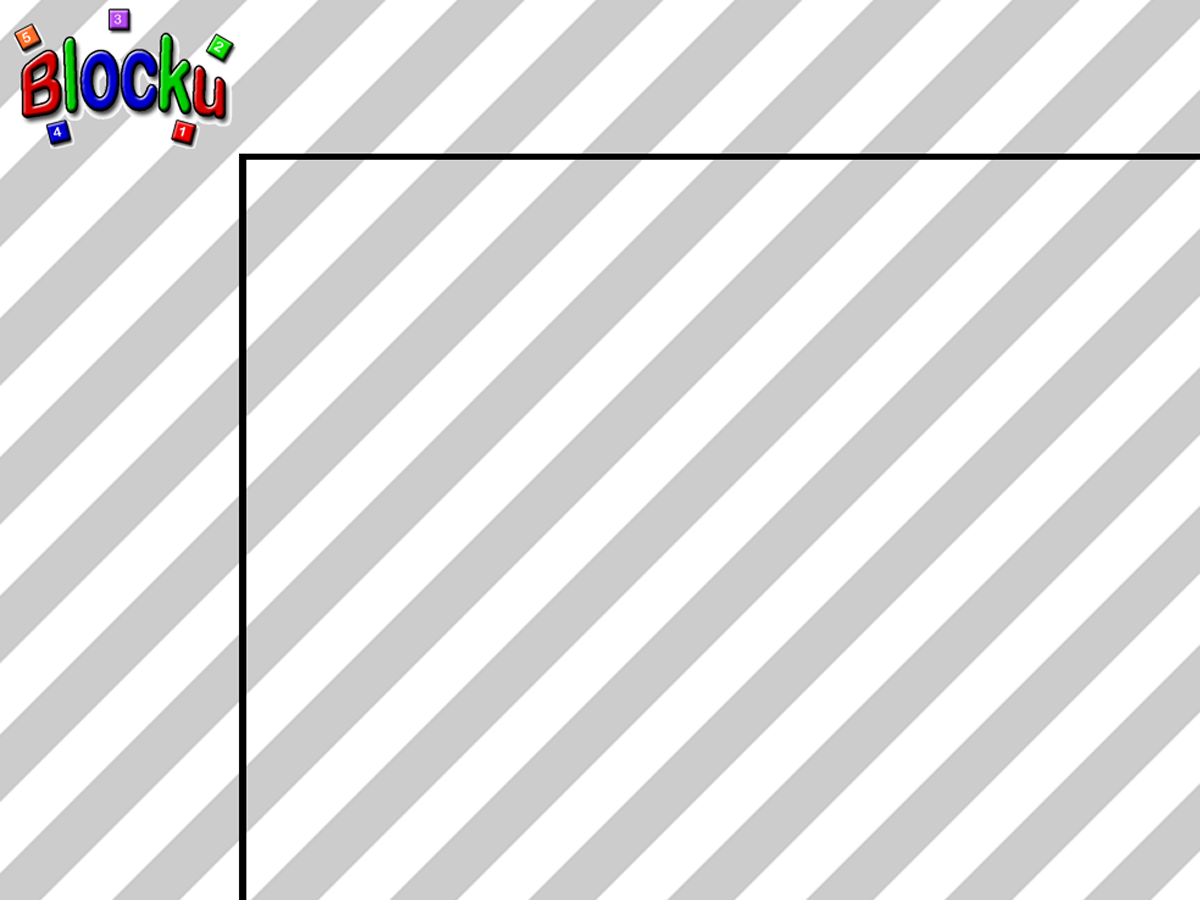
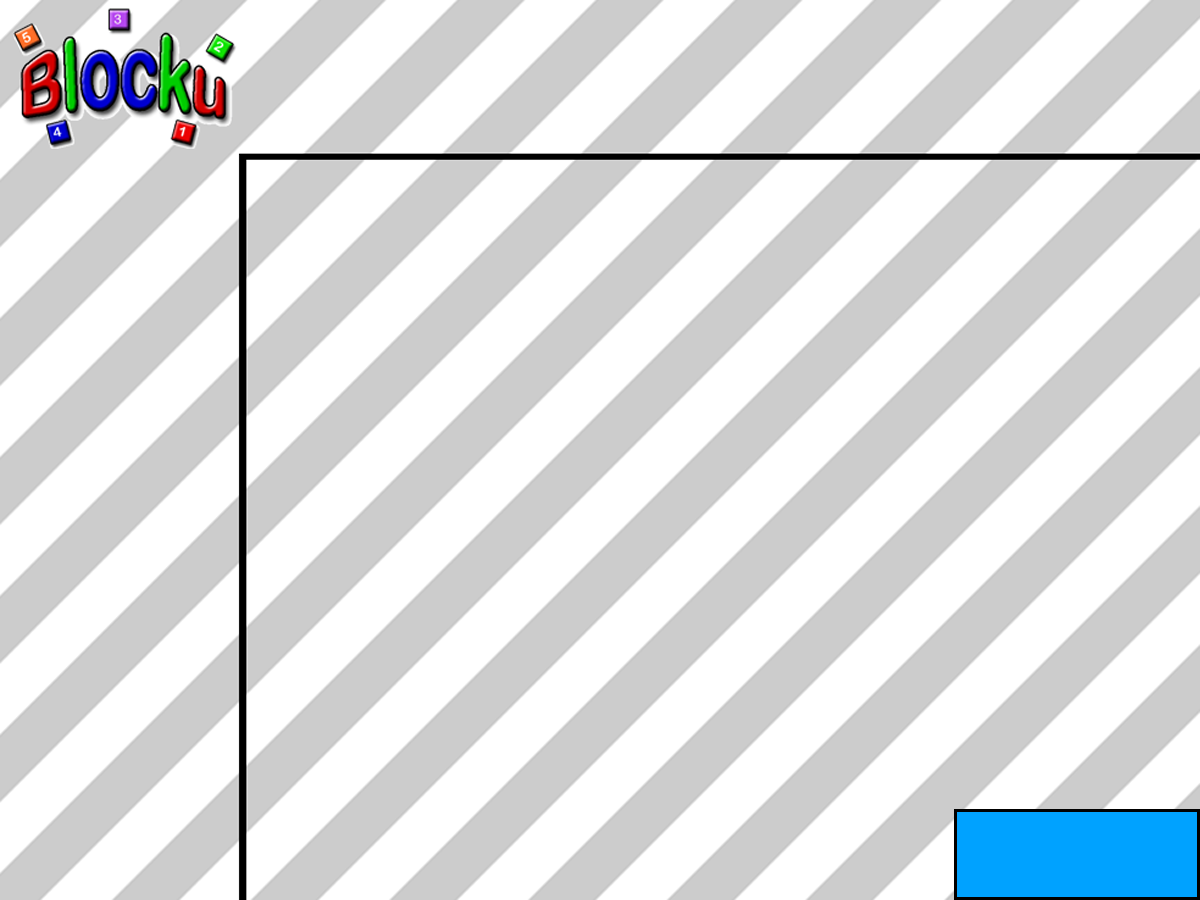
Removed image text and replaced with in game font for localization. Automatically wraps text. Added a check answers button on main game page. Displays if user solved or not in big friendly letters. Incomplete text disappears after a shortwhile. commented otu teh Randomize blocks line for testing pur

Changed region(s): [[0.7708, 0.8711, 1.0, 1.0]]

diff --git a/blocku.py b/blocku.py
@@ -10,6 +10,7 @@ Authored by Fran Rogers and Ariel Zamparini
 import pygame, random, os.path, os
 from pygame.locals import *
 from pygame import *
+from itertools import chain
 
 try: import gtk
 except ImportError:
@@ -309,6 +310,10 @@ class Game:
         pygame.mouse.set_visible(False)
         self.running = True
         isRan = 0
+
+        #pseudo timer
+        loopCounter = 0
+        
         if pygame.mixer and not pygame.mixer.get_init():
             print('Warning, no sound')
             pygame.mixer = None
@@ -321,6 +326,7 @@ class Game:
         screen = pygame.display.set_mode(SCREENRECT.size, winstyle, bestdepth)
         
         squares = load_image('square.png')
+        global background
         background = load_image('background.png')
         iconImg = load_image('blocku.png')
         self.screen = pygame.display.set_mode((1200,900))
@@ -330,7 +336,14 @@ class Game:
         # for gifs  img = load_image('filename.gif')
         # for bmps img = pygame.image.load('filename.bmp') but our function handles that for us
         # a note for graphics blit means copy pixels from screen.blit()
-        
+        #Check solution text
+        cursor = mouseUpdate()            
+        spriteBatch.add(cursor)
+        if pygame.font:
+            font = pygame.font.Font(None, 42)
+            check = font.render("Check Answer", 1, (0,230,0))
+            background.blit(check,[978,840])
+            pygame.display.flip()
 
         
         # the test will need rects and positions i sugest make some kind of default
@@ -360,12 +373,14 @@ class Game:
         
         #generate random number between 20 and 99 for the answer to equal
         answer = random.randint(20, 99)
-        global debugText
+        #global debugText
         debugText = 'Arrange blocks so that addition equals ' + str(answer)
         #debugText = answerStr
         #see if there is a sprite font
         
-
+        if pygame.font:
+            spriteBatch.add(Text(debugText,253,174))
+            
         #main blocku code structs
         blocks = pygame.sprite.Group()
         Block.containers = blocks,spriteBatch
@@ -386,7 +401,7 @@ class Game:
         answerStr = LastLine()  ##
         #answerStr = 'Arrange blocks so that addition equals ' + str(answer) #*
         #print(answerStr)
-        Randomize(allBlocks)
+        #Randomize(allBlocks)
         #print(allBlocks)
 
         # Default grid positions - handled now by GenerateGrid()
@@ -397,6 +412,7 @@ class Game:
             background.blit(gridImg1, gridpos[i])
 
 
+        
         #get the image and screen in the same format
         if background.get_bitsize() == 8:
             set_palette(background.get_palette())
@@ -412,20 +428,16 @@ class Game:
         pygame.display.set_icon(icon)
         pygame.display.set_caption('Blocku')
 
-        #this next call is sort of like sprite batch . drawf
-
-        pygame.display.flip()
+        
         
         #if a key is down
         global keyDown
-
-        cursor = mouseUpdate()
-        if pygame.font:
-            spriteBatch.add(Text(''))
             
             #spriteBatch.add(mainText())
-        spriteBatch.add(cursor)
         
+        #cursor.move_to_front()
+        
+
         # it is important to note that like xna the origin is 0,0
         # the top left of the current window
         # print is trace in console
@@ -434,6 +446,14 @@ class Game:
         # this will return a list of colliders, dokill will remove the colliders from the parrent group if true
         mousePossible = True
         while self.running:
+            loopCounter += 1
+            if loopCounter > 50:
+                try:
+                    txt2.change('')
+                except:
+                    pass
+                loopCounter=0
+            pygame.display.flip()
             keyDown = False
             # Pump GTK messages.
             while gtk and gtk.events_pending():
@@ -450,27 +470,57 @@ class Game:
                 if e.type == MOUSEBUTTONDOWN:
                     event.set_grab(1)
                     mousePossible = True
+                    if cursor.rect.x > 954 and cursor.rect.x < 1200 and cursor.rect.y > 809 and cursor.rect.y < 900:
+                            result = Solve(allBlocks)
+                            if pygame.font:
+                                if result=='Solved!':
+                                    txt = Text('You Win!',400,240,'red',142)
+                                    spriteBatch.add(txt)
+                                    try:
+                                        txt2.change('')
+                                    except:
+                                        pass
+                                else:
+                                    loopCounter = 0
+                                    try:
+                                        txt.change('')
+                                    except:
+                                        pass
+                                    txt2 = Text('Incomplete',400,240,'red',142)
+                                    spriteBatch.add(txt2)
+                                
                 elif e.type == MOUSEBUTTONUP:
                     event.set_grab(0)
                 if e.type == KEYDOWN:
                     if(e.key == K_SPACE) or (e.key == K_KP3):
-                        print'still down'
                         event.set_grab(1)
                 elif e.type == KEYUP:
                     if(e.key == K_SPACE) or (e.key == K_KP3):
-                        print'going up'
                         event.set_grab(0)
-
+                        if cursor.rect.x > 954 and cursor.rect.x < 1200 and cursor.rect.y > 809 and cursor.rect.y < 900:
+                            result = Solve(allBlocks)
+                            if pygame.font:
+                                if result=='Solved!':
+                                    txt = Text('You Win!',400,240,'red',142)
+                                    spriteBatch.add(txt)
+                                    try:
+                                        txt2.change('')
+                                    except:
+                                        pass
+                                else:
+                                    loopCounter = 0
+                                    try:
+                                        txt.change('')
+                                    except:
+                                        pass
+                                    txt2 = Text('Incomplete',400,240,'red',142)
+                                    spriteBatch.add(txt2)
+                        
             # get the state of the keyboard for input
             
             if not keystate[K_RETURN] or keystate[K_KP1]:
                 keyDown = False
             # Checks to see if the puzzle is solved
-            if keystate[K_a]:
-                result = Solve(allBlocks)
-                print(result)
-                #if (result == "Solved!"):
-                    #pygame.mixer.music.play()
 
             #if keystate[K_b]:
                # pygame.mixer.music.play()
@@ -485,7 +535,7 @@ class Game:
             y = cursor.rect.y
 
             
-            #pygame.event.get()
+            #keyboard and gameboy buttons
             if keystate[K_LEFT] or keystate[K_KP4]:
                 cursor.move(3)
                 mousePossible = False
@@ -549,27 +599,32 @@ class Game:
 
             # Try to stay at 30 FPS
             self.clock.tick(30)
-
+            
 class Text(pygame.sprite.Sprite):
     text = ''
-    def __init__(self,txt=''):
+    def __init__(self,txt='',x=0,y=0,clr='blue',size=38):
         pygame.sprite.Sprite.__init__(self)
-        self.font = pygame.font.Font(None, 38)
-        #self.font.set_italic(1)
-        self.color = Color('blue')
+        self.font = pygame.font.Font(None, size)
+        self.color = Color(clr)
         self.update()
-        self.rect = self.image.get_rect().move(253, 174)
+        self.rect = self.image.get_rect().move(x, y)
         self.text = txt
 
     def update(self):
-        global debugText
-        msg = self.text + debugText
+        msg = self.text
         self.image = self.font.render(msg, 0, self.color)
+
+    def change(self, new=''):
+        self.text = new
+        self.update()
 
 class mouseUpdate(pygame.sprite.Sprite):
     def __init__(self):
         pygame.sprite.Sprite.__init__(self)
         thisImg = load_image('mouse.png')
+        over = pygame.sprite.LayeredUpdates(*[self])
+
+        over.move_to_front(self)
         self.image = thisImg
         self.update()
         self.rect = self.image.get_rect().move(50, 220)
@@ -600,6 +655,7 @@ class mouseUpdate(pygame.sprite.Sprite):
             self.rect.x += -KEYBOARDMOVESPEED
 
 class MainMenu():
+    
     instBool = False
     def __init__(self):
         self.paused = False
@@ -630,6 +686,44 @@ class MainMenu():
 
         self.loop()
 
+    def truncline(self, text, font, maxwidth):
+        real=len(text)       
+        stext=text           
+        l=font.size(text)[0]
+        cut=0
+        a=0                  
+        done=1
+        old = None
+        while l > maxwidth:
+            a=a+1
+            n=text.rsplit(None, a)[0]
+            if stext == n:
+                cut += 1
+                stext= n[:-cut]
+            else:
+                stext = n
+            l=font.size(stext)[0]
+            real=len(stext)               
+            done=0                        
+        return real, done, stext             
+        
+    def wrapline(self, text, font, maxwidth): 
+        done=0                      
+        wrapped=[]                  
+                                   
+        while not done:             
+            nl, done, stext = self.truncline(text, font, maxwidth) 
+            wrapped.append(stext.strip())                  
+            text=text[nl:]                                 
+        return wrapped
+     
+     
+    def wrap_multi_line(self, text, font, maxwidth):
+        """ returns text taking new lines into account.
+        """
+        lines = chain(*(wrapline(line, font, maxwidth) for line in text.splitlines()))
+        return list(lines)
+
     def addText(self):
         if pygame.font:
             font = pygame.font.Font(None, 50)
@@ -643,6 +737,13 @@ class MainMenu():
                 newFont = pygame.font.Font(None, 100)
                 instTitle = newFont.render("Instructions", 1, (255,0,0))
                 self.screen.blit(instTitle,[390,314])
+
+                text = pygame.font.Font(None, 42)
+                welp = self.wrapline('Goal: position the blocks so that the numbers which are next to each other solve the given equation.      Controls: Use the mouse or Game Buttons to drag and drop the blocks. Use the return key to rotate, or the checkmark button.',text,500)
+                for i in range(len(welp)):
+                    newTxt=pygame.font.Font(None,42)
+                    newInst = newTxt.render(welp[i],1,(0,0,0))
+                    self.screen.blit(newInst,[370,370+(28*i)])
 
                 closeF = pygame.font.Font(None, 28)
                 close = closeF.render("Close",1,(255,0,0))
@@ -670,13 +771,9 @@ class MainMenu():
                     if event.button == 1:
 
                         #new game button is at (382,269) and is 311,122 pixels
-                        #x gain of 84
-                        #y gain of 60
                         #insturctions button is at (382, 392) and is 311,122 pixels
                         #game mode is at (382, 510) and is 311,122 pixels
                         #exit is at (382,625) and is 311,122 pixels
-                        #220,212
-                        #688,492    67,26
                         #new game. launches into a new game of blocku, with current default behavior of creating a new random grid
                         if event.pos[0] > 466 and event.pos[0] < 777 and event.pos[1] > 329 and event.pos[1] < 451 and self.instBool == False:
                             pygame.display.flip()
@@ -712,18 +809,6 @@ def main():
     pygame.init()
     mMenu = MainMenu()
     pygame.quit()
-    #mMenu.run()
-    # Initialize pygame
-    #pygame.init()
-
-    # Initialize a game
-    #game = Game()
-
-    #mainMenu()
-
-    # Run the game
-    #game.run()
-    #pygame.quit()
 
 #call the "main" function if python is running this script
 if __name__ == '__main__':
